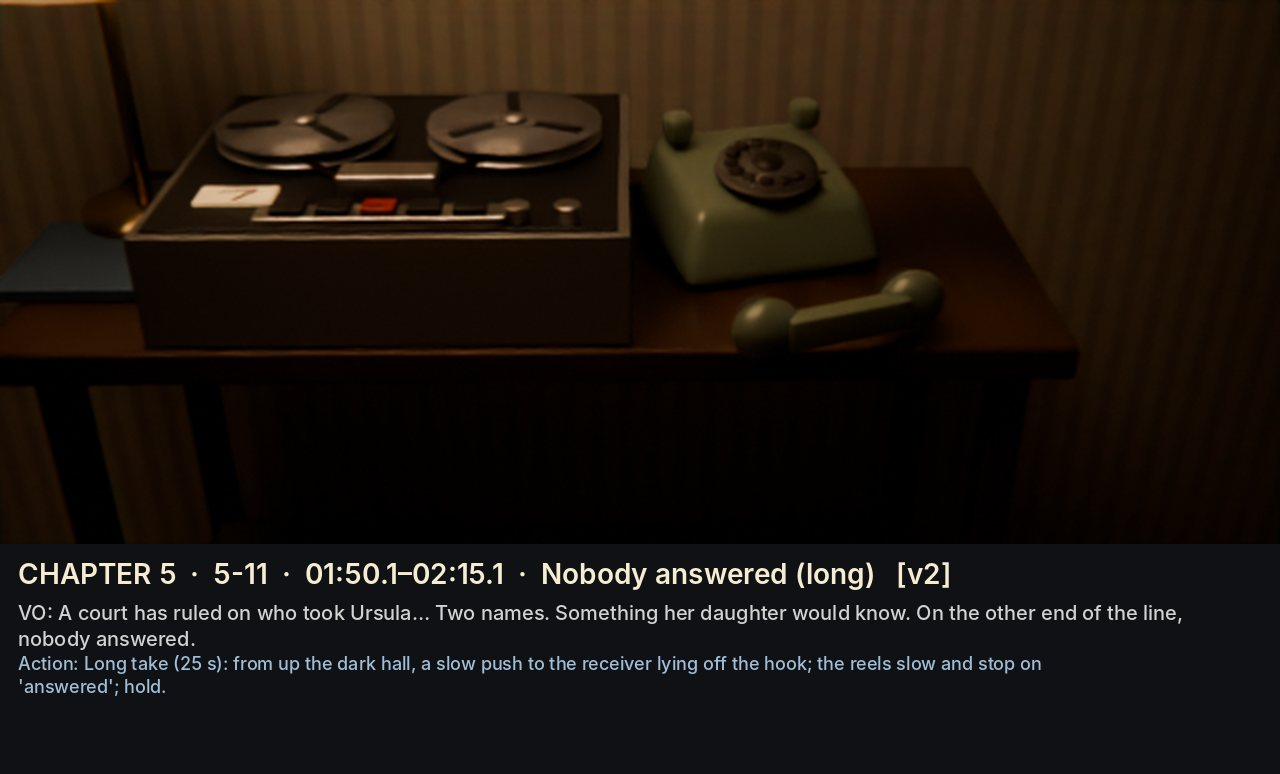
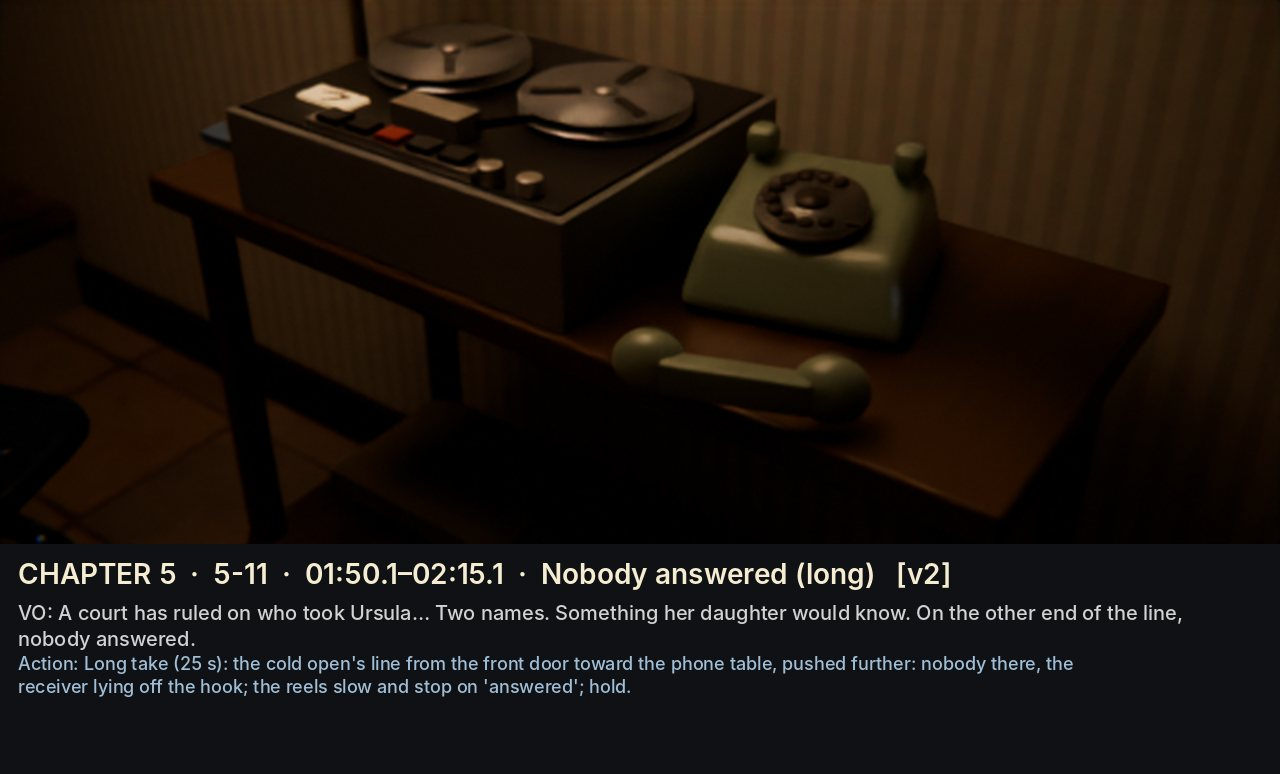
B 5-11: off-hook push on the cold open's line (front door -> phone table); frames refreshed
Claude-Session: https://claude.ai/code/session_01XfwPSmdQ4Yjh3CAg9vZd6z

Changed region(s): [[0.0, 0.0, 0.8125, 0.7132], [0.0, 0.8372, 0.8438, 0.8992], [0.5625, 0.5271, 0.625, 0.5581]]

diff --git a/projects/radio-jingle/scenes/sc_b_hall.py b/projects/radio-jingle/scenes/sc_b_hall.py
@@ -75,10 +75,11 @@ def anim(c, t, move):
 
 
 def cam_offhook(t):
-    """25 s: from up the dark hall (north of the table) a slow arcing push round to the receiver on the table."""
+    """25 s: the cold open's line (sc_house co_push: from the front door toward the phone table), continued: the same
+    push, now with nobody at the table, ending close on the receiver lying off the hook. Closes the ring."""
     u = ease(min(1.0, t / 0.82))
-    pts = [Vector((T.x - 0.9, T.y + 2.2, 1.62)), Vector((T.x - 1.25, T.y + 0.9, 1.5)), Vector((T.x - 1.2, T.y - 0.1, 1.38)),
-           Vector((T.x - 0.95, T.y - 0.55, 1.28))]
+    pts = [Vector((-0.55, -3.25, 1.55)), Vector((-0.35, -2.55, 1.5)), Vector((-0.12, -2.05, 1.38)),
+           Vector((T.x - 0.62, T.y - 0.55, 1.26))]
     x = u * (len(pts) - 1); k = min(len(pts) - 2, int(x)); f = x - k
     return (pts[k].lerp(pts[k + 1], f), None)
 

diff --git a/projects/radio-jingle/scenes/b_shots.py b/projects/radio-jingle/scenes/b_shots.py
@@ -235,5 +235,5 @@ ACTION = {
     "5-1B": "Exhibit table under one top light, all items in place: struck statement, binoculars, letters, soldering iron, Grundig; the camera tracks item to item as each is named.",
     "5-2C": "Fifty-six hearing-day folders in a row; a slow track to the last.",
     "5-5B": "Night: a glass of water on the piano, its surface trembling without end; Michael soft behind on the bench.",
-    "5-11": "Long take (25 s): from up the dark hall, a slow push to the receiver lying off the hook; the reels slow and stop on 'answered'; hold.",
+    "5-11": "Long take (25 s): the cold open's line from the front door toward the phone table, pushed further: nobody there, the receiver lying off the hook; the reels slow and stop on 'answered'; hold.",
 }

diff --git a/projects/radio-jingle/review/STORYBOARD_v2.md b/projects/radio-jingle/review/STORYBOARD_v2.md
@@ -54,7 +54,7 @@ Motion previews: `review/b_v2_mp4/*.mp4` (480p, low samples).
 | 5-1B | "credit details in Pfaffinger's statement… binoculars… debts, workshop skills… the Grundig" | Clerk carries the binoculars | Exhibit table under one top light, all items in place: struck statement, binoculars, letters, soldering iron, Grundig; the camera tracks item to item as each is named. | Recurring evidence pays off. A list becomes inserts |
 | 5-2C (new) | "after fifty-six days of hearings" | (none) | Fifty-six hearing-day folders in a row; a slow track to the last. | A count as physical units |
 | 5-5B | "tinnitus, a persistent noise… sleeping" | He faces the dark window | Night: a glass of water on the piano, its surface trembling without end; Michael soft behind on the bench. | A sound that never stops, made visible |
-| 5-11 (long) | "Two names… nobody answered" | 8 s push | Long take (25 s): from up the dark hall, a slow push to the receiver lying off the hook; the reels slow and stop on 'answered'; hold. | Chapter 5's hero take and the ring ending |
+| 5-11 (long) | "Two names… nobody answered" | 8 s push | Long take (25 s): the cold open's line from the front door toward the phone table, pushed further: nobody there, the receiver lying off the hook; the reels slow and stop on 'answered'; hold. | Chapter 5's hero take and the ring ending |
 
 ## Kept (already strong, animation improved)
 - 3-4A workshop
